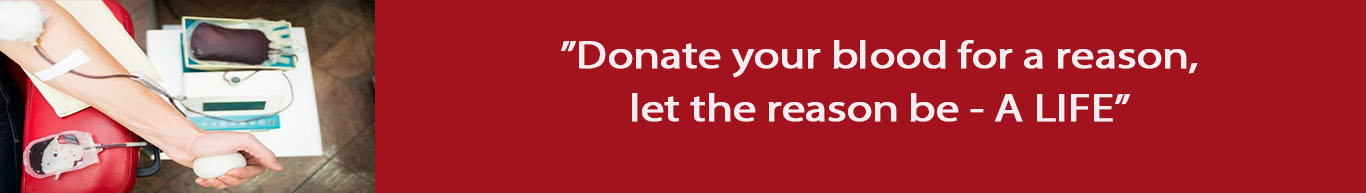
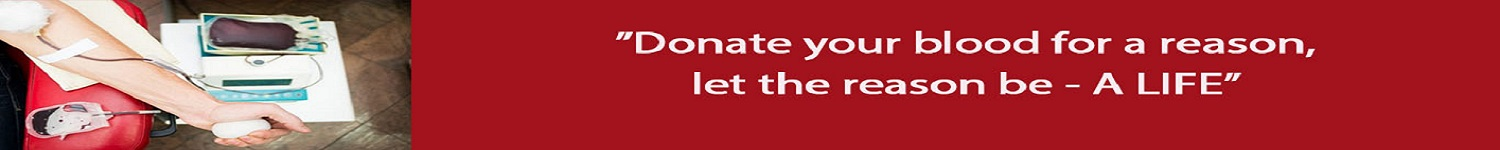
added styling of index.php

diff --git a/request-page.php b/request-page.php
@@ -1,0 +1,101 @@
+<?php
+session_start();
+
+include('connect.php');
+?>
+
+<!DOCTYPE html>
+<html lang="en">
+<head>
+  <title>Aditya</title>
+  <meta charset="utf-8">
+  <meta name="viewport" content="width=device-width, initial-scale=1">
+  <link rel="stylesheet" href="https://maxcdn.bootstrapcdn.com/bootstrap/3.3.7/css/bootstrap.min.css">
+  <script src="https://ajax.googleapis.com/ajax/libs/jquery/3.2.0/jquery.min.js"></script>
+  <script src="https://maxcdn.bootstrapcdn.com/bootstrap/3.3.7/js/bootstrap.min.js"></script>
+<style>
+body {
+  font-family: "Lato", sans-serif;
+}
+
+.sidenav {
+  height: 100%;
+  width: 0;
+  position: fixed;
+  z-index: 1;
+  top: 0;
+  left: 0;
+  background-color: #111;
+  overflow-x: hidden;
+  transition: 0.5s;
+  padding-top: 60px;
+}
+
+.sidenav a {
+  padding: 8px 8px 8px 32px;
+  text-decoration: none;
+  font-size: 25px;
+  color: #818181;
+  display: block;
+  transition: 0.3s;
+}
+
+.sidenav a:hover {
+  color: #f1f1f1;
+}
+
+.sidenav .closebtn {
+  position: absolute;
+  top: 0;
+  right: 25px;
+  font-size: 36px;
+  margin-left: 50px;
+}
+
+@media screen and (max-height: 450px) {
+  .sidenav {padding-top: 15px;}
+  .sidenav a {font-size: 18px;}
+}
+</style>
+</head>
+<body>
+  <div class="container-fluid">
+  <hgroup>
+    <h1 class="site-title" style="text-align: center; color: green;">BLOOD BANK MANAGEMENT SYSTEM</h1><br>
+  </hgroup>
+
+<div id="mySidenav" class="sidenav">
+  <a href="javascript:void(0)" class="closebtn" onclick="closeNav()">&times;</a>
+  <a href="index.php"><span class="glyphicon glyphicon-home"></span> Home</a>
+  <a href="register.php"><span class="glyphicon glyphicon-user"></span> Sign Up</a>
+  <a href="search-donor.php"><span class="glyphicon glyphicon-search"></span> Search Donor</a>
+  <a href="donor_list.php"><span class="glyphicon glyphicon-list-alt"></span> Donor List</a>
+  <a href="my-profile.php"><span class="glyphicon glyphicon-wrench"></span> My Profile</a>
+  <a href="logout.php"><span class="glyphicon glyphicon-log-out"></span> Sign Out</a>
+</div>
+<span style="font-size:30px;cursor:pointer" onclick="openNav()">&#9776; Menu</span>
+
+<script>
+function openNav() {
+  document.getElementById("mySidenav").style.width = "250px";
+}
+
+function closeNav() {
+  document.getElementById("mySidenav").style.width = "0";
+}
+</script>
+<main class="main-content">
+<?php
+    if(isset($_SESSION['message']))
+    {
+         echo "<div id='error_msg'>".$_SESSION['message']."</div>";
+         unset($_SESSION['message']);
+    }
+?>
+
+
+</main>
+</div>  
+</body>
+</html> 
+

diff --git a/index.php b/index.php
@@ -62,8 +62,6 @@ $result=$db->query($sql);
   <link rel="stylesheet" href="https://maxcdn.bootstrapcdn.com/bootstrap/3.3.7/css/bootstrap.min.css">
   <script src="https://ajax.googleapis.com/ajax/libs/jquery/3.2.0/jquery.min.js"></script>
   <script src="https://maxcdn.bootstrapcdn.com/bootstrap/3.3.7/js/bootstrap.min.js"></script>
-  <link rel="stylesheet" href="style.css">
-  <link rel="stylesheet" href= "style1.css">
   <style>
   #error_msg
 {
@@ -93,7 +91,12 @@ body{
   font-size: 20px;
   text-align: center;
 }
-@media only screen and (max-width: 600px) {
+#logo img
+{    
+    height: 50px;
+    
+}
+@media only screen and (max-width: 450px) {
   h1{
     font-size: 2rem;
   }
@@ -101,8 +104,9 @@ body{
     font-size: 2rem;
   }
   .sticky{
-    font-size: 10px;
+    font-size: 12px;
   }
+  
 }
 .donationTypeInfoWindow {
     background-color: #e6ffff;
@@ -139,7 +143,7 @@ body{
   </div>
 </nav>
   <div id="logo"> 
-    <img src = "img/logo.jpg" alt = "RAKTIM" >
+    <center><img class="img-responsive" src = "img/logo.jpg" alt = "RAKTIM" ></center>
 </div>
 <div class="container-fluid">
   <!-- <hgroup>
@@ -174,7 +178,7 @@ if ($result->num_rows > 0)
 }
     
 else{
-    echo '<p class="text-center" style="color:Red;text-align:centre;">No User Has Requested for Blood</p>';
+    echo '<p> <h2 class="text-center" style="color:Red;text-align:centre;">No User Has Requested for Blood</h2></p>';
   }
   ?>
 <?php

diff --git a/footer.php b/footer.php
@@ -6,17 +6,25 @@
 <style>
 .footer {
    position: fixed;
-   left: 0;
+   left:0;
    bottom: 0;
-   /* width: 100%;
-   background-color: red;
+   width:100%;
+   height:auto;
+   
+
+   /*background-color: red;
    color: white;
    text-align: center; */
+}
+@media only screen and (max-width: 450px) {
+
 }
 </style>
 </head>
 <body>
-  <img src ="img\Untitled-13.jpg" alt ="DONATE YOUR BLOOD FOR A REASON, LET THE REASON BE- A LIFE";>
+<div class=" footer">
+<center><img  class="img-responsive" src ="img\Untitled-4.jpg" alt ="DONATE YOUR BLOOD FOR A REASON, LET THE REASON BE- A LIFE";></center>
+</div>
 
 
 <!-- <div class="footer">
